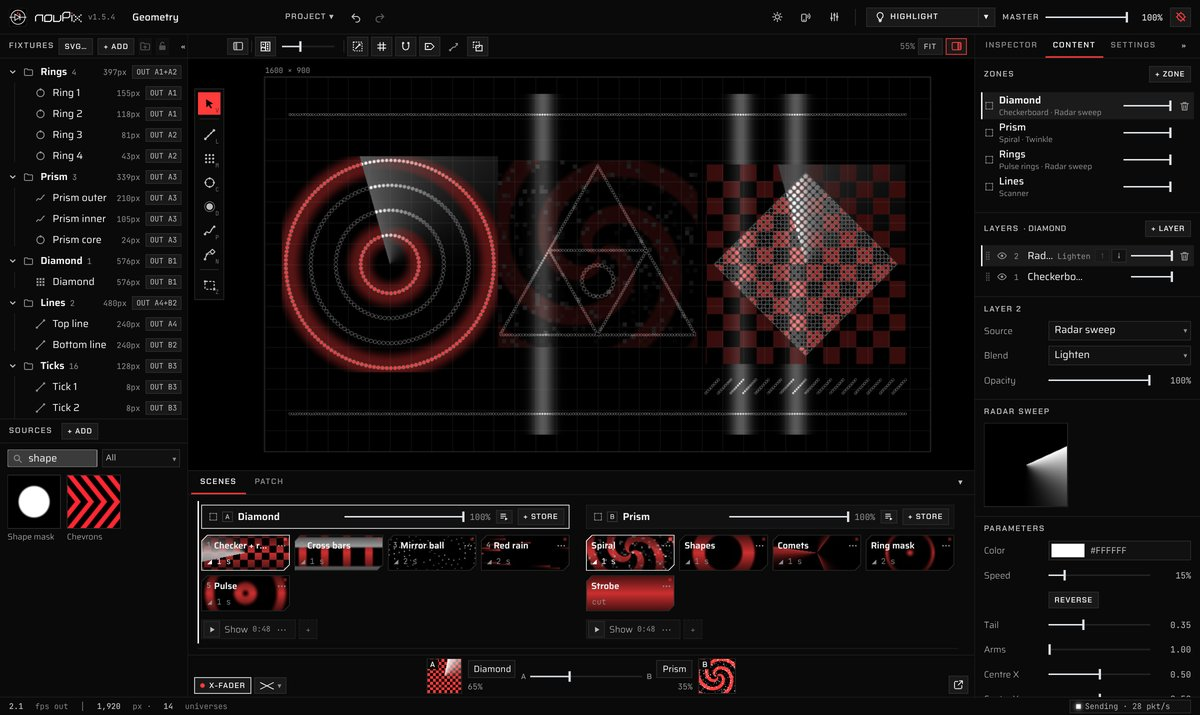
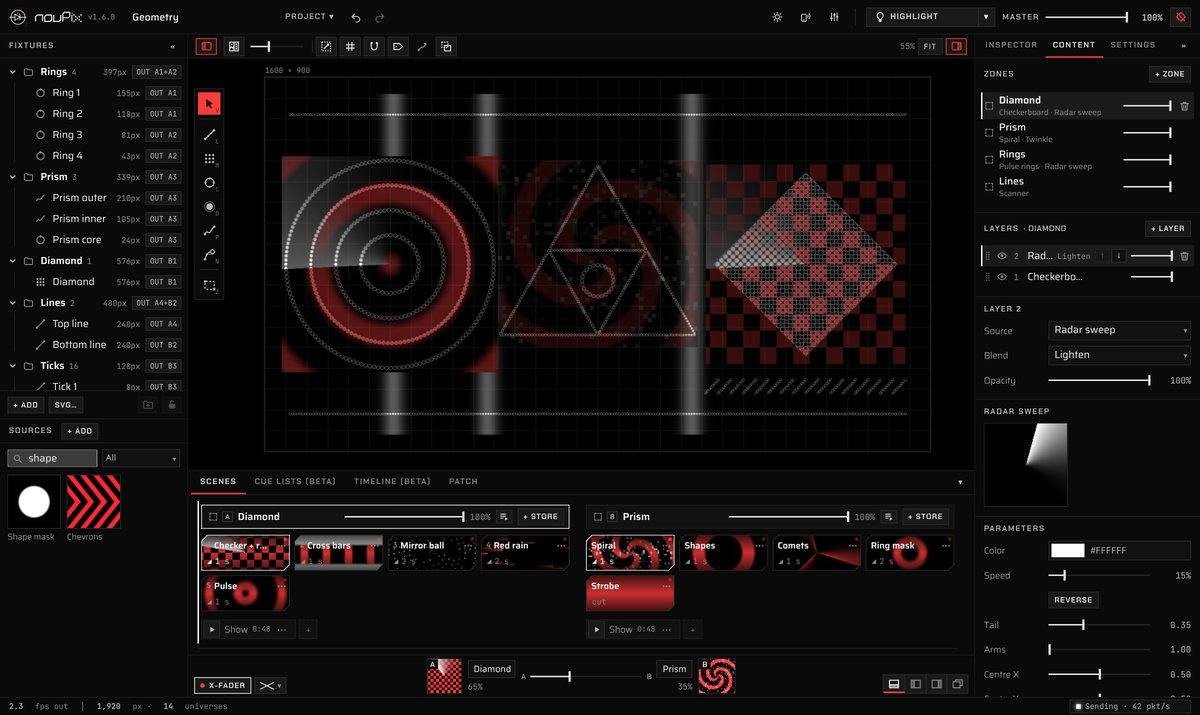
Site: 1.6.0, cue lists and the timeline (beta), pictures from 1.6.0, shorter texts
Claude-Session: https://claude.ai/code/session_01TnTf954bCnfcgD4L8cjhPo

diff --git a/docs/index.html b/docs/index.html
@@ -11,44 +11,8 @@
 <meta name="theme-color" content="#000000">
 <link rel="icon" href="img/favicon.svg" type="image/svg+xml">
 <style>html,body{margin:0;background:#000}</style>
-<!-- Password gate: a light lock, not security. If you where able to find it, you deserve to enter. -->
-<script>var NP_PASS='open-led';try{if(localStorage.getItem('np-pass')!==NP_PASS)document.documentElement.className+=' np-locked'}catch(e){document.documentElement.className+=' np-locked'}</script>
-<style>
-.np-locked #noupix{display:none}
-#np-gate{display:none}
-.np-locked #np-gate{display:flex;min-height:100vh;align-items:center;justify-content:center;padding:24px 16px;box-sizing:border-box;background:#000;color:#f0f0f0;font-family:"Saira",system-ui,-apple-system,"Segoe UI",sans-serif}
-#np-gate form{width:100%;max-width:340px;display:flex;flex-direction:column;gap:14px}
-#np-gate h1{margin:0;font:700 28px/1 "Chakra Petch","Saira",system-ui,sans-serif;letter-spacing:.02em}
-#np-gate p{margin:0;color:#8e8e8e;font:300 13px/1.5 "JetBrains Mono",ui-monospace,Menlo,Consolas,monospace}
-#np-gate input{background:#080808;border:1px solid #3a3a3a;color:#f0f0f0;font:400 16px/1 "JetBrains Mono",ui-monospace,Menlo,Consolas,monospace;padding:12px 14px;outline:none;border-radius:0}
-#np-gate input:focus{border-color:#bdbdbd}
-#np-gate button{background:#ff3b3b;border:0;color:#000;font:700 14px/1 "Chakra Petch","Saira",system-ui,sans-serif;letter-spacing:.08em;text-transform:uppercase;padding:14px;cursor:pointer}
-#np-gate .np-err{color:#ff3b3b;min-height:1.5em}
-</style>
 </head>
 <body>
-<div id="np-gate">
-  <form autocomplete="off">
-    <h1>nouPix</h1>
-    <p>This page isn't public yet. Enter the password to continue.</p>
-    <input type="password" aria-label="Password" placeholder="Password" autofocus>
-    <button type="submit">Enter</button>
-    <p class="np-err" aria-live="polite"></p>
-  </form>
-</div>
-<script>
-(function () {
-  var f = document.querySelector('#np-gate form'), i = f.querySelector('input'), err = f.querySelector('.np-err');
-  f.addEventListener('submit', function (e) {
-    e.preventDefault();
-    if (i.value.trim().toLowerCase() === NP_PASS) {
-      try { localStorage.setItem('np-pass', NP_PASS); } catch (x) {}
-      document.documentElement.className = document.documentElement.className.replace(/\s*np-locked/g, '');
-      window.dispatchEvent(new Event('resize'));   // the LED canvases measure themselves once visible
-    } else { err.textContent = 'Wrong password'; i.select(); }
-  });
-})();
-</script>
 <!-- nouPix product page · noupix.nouled.com
      The GitHub repo for releases, source, manuals and issues is set ONCE, in data-repo below.
      Every GitHub link on the page is built from it (and also written out in full, so the page works without JavaScript:
@@ -275,7 +239,7 @@
 @media (max-width:900px){#noupix .np-first,#noupix .np-source{grid-template-columns:minmax(0,1fr)}#noupix .np-source{padding:40px 20px 24px}}
 @media (max-width:560px){#noupix .np-dl{grid-template-columns:minmax(0,1fr)}}
 
-/* support */
+/* help */
 #noupix .np-help{display:grid;grid-template-columns:repeat(4,minmax(0,1fr));gap:16px}
 @media (max-width:1200px){#noupix .np-help{grid-template-columns:repeat(2,minmax(0,1fr))}}
 #noupix .np-help a{display:flex;flex-direction:column;gap:10px;padding:28px 26px;border:1px solid var(--line2);background:var(--bg1);transition:border-color .15s}
@@ -352,7 +316,7 @@
         <a class="np-btn primary" href="#np-download">Download free <span class="np-arrow">↓</span></a>
         <a class="np-btn" data-np-href="" href="https://github.com/nouled-studio/nouPix">Source on GitHub <span class="np-arrow">↗</span></a>
       </div>
-      <p class="np-meta"><span data-np="version">v1.5.4</span> · macOS 12+ · Windows 10+ · Linux and Raspberry Pi from source · <span class="np-oss">AGPL-3.0</span></p>
+      <p class="np-meta"><span data-np="version">v1.6.0</span> · macOS 12+ · Windows 10+ · Linux and Raspberry Pi from source · <span class="np-oss">AGPL-3.0</span></p>
     </div>
     <div class="np-wrap">
       <div class="np-zone np-shotwrap">
@@ -383,7 +347,7 @@
       <div>
         <span class="np-badge"><i></i>GNU AGPL-3.0</span>
         <h2 style="margin-top:24px"><span>Free.</span><span class="np-dim">Open source.</span><span>For everyone.</span></h2>
-        <p>nouPix costs nothing, and its <b>full source code is on GitHub</b>. Use it for any job, paid shows included. Read it, learn from it, change it, share it. Whoever shares it must keep it open: <b>the same freedom passes on to everyone who gets a copy</b>.</p>
+        <p>nouPix costs nothing, and its <b>full source code is on GitHub</b>. Read it, learn from it, change it, share it. Whoever shares it must keep it open: <b>the same freedom passes on to everyone who gets a copy</b>.</p>
         <div class="np-cta">
           <a class="np-btn" data-np-href="" href="https://github.com/nouled-studio/nouPix">Read the source <span class="np-arrow">↗</span></a>
           <a class="np-btn" href="#np-licence">The licence <span class="np-arrow">↓</span></a>
@@ -553,10 +517,34 @@
       </article>
 
       <article class="np-feat np-wide np-zone">
-        <span class="np-ztag"><b>Zone 07</b> 100% <i>●</i></span>
+        <span class="np-ztag"><b>Zone 07</b> beta <i>●</i></span>
         <div class="np-ftext">
           <div>
-          <p class="np-fnum">07 <i>/ Patch</i></p>
+          <p class="np-fnum">07 <i>/ Cues &amp; timeline</i></p>
+          <h3>Run the show cue by cue, or on a timeline</h3>
+          <p>Two new ways to play scenes, both in beta: try them, and say on GitHub what you miss.</p>
+          </div>
+          <ul class="np-list">
+            <li><b>Cue lists</b>: GO (or Space) plays the cue on standby. A cue plays scenes in the zones you choose, takes their levels somewhere and sets effects' controls, all over its fade</li>
+            <li>A cue can go on to the next, or to another, by itself after a wait; Back and Stop; as many cue lists as you like</li>
+            <li><b>Timeline</b>: scenes as clips on a track per zone, in time with an audio file and its waveform</li>
+            <li>Clips fade in and out, crossfade into each other and stack on lanes; loop it all or a region; the ruler in seconds or bars</li>
+            <li>The Scenes, Cue lists and Timeline panels can each move to the left or right side, as one more tab</li>
+          </ul>
+        </div>
+        <figure>
+          <div class="np-media np-cut"><img src="img/feature-timeline.webp" width="1572" height="760" loading="lazy" alt="The Timeline: an audio file's waveform on top, and a track per zone (Diamond, Prism on two lanes, Rings, Lines) with scene clips showing their snapshots, fading and crossfading, the ruler in bars and the playhead in red"></div>
+        </figure>
+        <figure>
+          <div class="np-media np-cut"><img src="img/feature-cues.webp" width="1572" height="570" loading="lazy" alt="A cue list, Opening night: GO, cue 3 on standby outlined in red, cue 2 playing in white with its progress line and going on by itself, and each cue's actions, fade and what comes after"></div>
+        </figure>
+      </article>
+
+      <article class="np-feat np-wide np-zone">
+        <span class="np-ztag"><b>Zone 08</b> 100% <i>●</i></span>
+        <div class="np-ftext">
+          <div>
+          <p class="np-fnum">08 <i>/ Patch</i></p>
           <h3>Patch once. Send Art&#8209;Net, <span style="text-transform:none">sACN</span> and DDP</h3>
           <p>Drag fixtures onto controller outputs and the addresses follow.</p>
           </div>
@@ -568,7 +556,7 @@
             <li><b>DDP</b> for WLED, Advatek, Falcon and other pixel controllers: one run of channels, none skipped</li>
             <li>16-bit fixtures, dimming curves, RGBW, gamma and colour trims</li>
             <li>Highlight lights fixtures on site: Trace, Flood, Color check, Spotlight, Pixel finder</li>
-            <li>A CSV patch list for the install crew</li>
+            <li>A CSV patch list to print or share</li>
           </ul>
         </div>
         <figure>
@@ -577,9 +565,9 @@
       </article>
 
       <article class="np-feat np-zone np-midi">
-        <span class="np-ztag"><b>Zone 08</b> learn <i>●</i></span>
+        <span class="np-ztag"><b>Zone 09</b> learn <i>●</i></span>
         <div class="np-ftext">
-          <p class="np-fnum">08 <i>/ MIDI</i></p>
+          <p class="np-fnum">09 <i>/ MIDI</i></p>
           <h3>Learn your controller in a second</h3>
           <p>Press Learn, move a fader, click what it should move.</p>
           <ul class="np-list">
@@ -596,11 +584,11 @@
       </article>
 
       <article class="np-feat np-flip np-zone">
-        <span class="np-ztag"><b>Zone 09</b> 100% <i>●</i></span>
+        <span class="np-ztag"><b>Zone 10</b> 100% <i>●</i></span>
         <div class="np-ftext">
-          <p class="np-fnum">09 <i>/ Remote</i></p>
-          <h3>Hand a phone to the end user</h3>
-          <p>The people who run the place get the buttons they need, not the mapping. Phones, tablets and other computers on the network log in with a role.</p>
+          <p class="np-fnum">10 <i>/ Remote</i></p>
+          <h3>Play it from a phone</h3>
+          <p>Phones, tablets and other computers on the network log in with a role, and each role gets the buttons it needs.</p>
           <ul class="np-list">
             <li><em>Remote</em>: a simple page to play scenes and playlists and dim each zone, and the X-Fader when you choose; a full-screen pad for interactive content</li>
             <li><em>Operator</em>: content, scenes and playlists; the mapping stays locked</li>
@@ -615,9 +603,9 @@
       </article>
 
       <article class="np-feat np-zone">
-        <span class="np-ztag"><b>Zone 10</b> 100% <i>●</i></span>
+        <span class="np-ztag"><b>Zone 11</b> 100% <i>●</i></span>
         <div class="np-ftext">
-          <p class="np-fnum">10 <i>/ Look</i></p>
+          <p class="np-fnum">11 <i>/ Look</i></p>
           <h3>Black for the show. White for daylight</h3>
           <p>The interface is black, so the light on the stage is the brightest thing on screen. One click turns it white for working outside.</p>
           <ul class="np-list">
@@ -653,7 +641,7 @@
           <b>DMX In</b><span>Take channels from a lighting desk to play scenes and move levels and macros, next to MIDI.</span></li>
         <li class="np-more">
           <svg viewBox="0 0 56 56" aria-hidden="true"><g fill="#3a3a3a"><circle cx="14" cy="28" r="3"/><circle cx="28" cy="28" r="3"/></g><circle cx="42" cy="28" r="3" fill="#ff3b3b"/></svg>
-          <b>And many more</b><span>Missing something for your installation? Say what you need: requests decide what comes next.</span>
+          <b>And many more</b><span>Missing something? Ideas and requests help decide what comes next.</span>
           <a data-np-href="/issues/new?labels=enhancement&amp;title=Idea%3A%20" href="https://github.com/nouled-studio/nouPix/issues/new?labels=enhancement&amp;title=Idea%3A%20">Request a feature →</a></li>
       </ul>
       <p class="np-nextnote">Plans, not promises: what comes first, and when, can change.</p>
@@ -691,7 +679,7 @@
         </a>
       </div>
       <div class="np-dlmeta">
-        <span>Latest: <span data-np="version">v1.5.4</span><span data-np="date"></span></span>
+        <span>Latest: <span data-np="version">v1.6.0</span><span data-np="date"></span></span>
         <a data-np-href="/releases/latest" href="https://github.com/nouled-studio/nouPix/releases/latest">Release notes</a>
         <a data-np-href="/releases" href="https://github.com/nouled-studio/nouPix/releases">All versions</a>
         <a data-np-href="" href="https://github.com/nouled-studio/nouPix">Source code</a>
@@ -713,7 +701,7 @@
           <pre><code><span class="p">$ </span>git clone <span data-np-clone>https://github.com/nouled-studio/nouPix.git</span>
 <span class="p">$ </span>cd nouPix
 <span class="p">$ </span>python3 noupix.py
-<span class="c">  nouPix 1.5.4
+<span class="c">  nouPix 1.6.0
   Interface   http://127.0.0.1:8080/</span></code></pre>
         </div>
       </div>
@@ -728,7 +716,7 @@
 
   <section class="np-sec" id="np-help">
     <div class="np-wrap">
-      <div class="np-sechead"><span class="np-mono">//</span><h2>Manual &amp; support</h2></div>
+      <div class="np-sechead"><span class="np-mono">//</span><h2>Manual &amp; help</h2></div>
       <div class="np-help">
         <a class="np-cut" data-np-href="/blob/main/docs/nouPix-getting-started.pdf" href="https://github.com/nouled-studio/nouPix/blob/main/docs/nouPix-getting-started.pdf">
           <b>Manual</b><span>Getting started, step by step with pictures: from an empty project to a running show. PDF.</span><span class="np-go">Open the manual (PDF) →</span>
@@ -737,13 +725,13 @@
           <b>Report a bug</b><span>Say what you did, what happened and what you expected. Your nouPix version and computer help a lot.</span><span class="np-go">Open a bug report →</span>
         </a>
         <a class="np-cut" data-np-href="/issues/new?labels=enhancement&amp;title=Idea%3A%20" href="https://github.com/nouled-studio/nouPix/issues/new?labels=enhancement&amp;title=Idea%3A%20">
-          <b>Request a feature</b><span>Missing something for your installation? Describe the job you need to get done.</span><span class="np-go">Suggest a feature →</span>
+          <b>Request a feature</b><span>Missing something? Describe what you'd like nouPix to do.</span><span class="np-go">Suggest a feature →</span>
         </a>
         <a class="np-cut" href="https://discord.gg/fF9dY269U" rel="noopener">
           <b>Community</b><span>Talk about nouPix on Discord: ask questions, share your installations and ideas with other users.</span><span class="np-go">Join the Discord →</span>
         </a>
       </div>
-      <p class="np-helpnote">The essentials are also in the <a data-np-href="#readme" href="https://github.com/nouled-studio/nouPix#readme">README</a>, every feature in detail in the <a data-np-href="/blob/main/docs/user-guide.md" href="https://github.com/nouled-studio/nouPix/blob/main/docs/user-guide.md">full reference</a>. Reports and requests live on GitHub; you need a free GitHub account. Check the <a data-np-href="/issues" href="https://github.com/nouled-studio/nouPix/issues">open issues</a> first: yours may be there already.</p>
+      <p class="np-helpnote">The essentials are also in the <a data-np-href="#readme" href="https://github.com/nouled-studio/nouPix#readme">README</a>, every feature in detail in the <a data-np-href="/blob/main/docs/user-guide.md" href="https://github.com/nouled-studio/nouPix/blob/main/docs/user-guide.md">full reference</a>. nouPix is a free project with no support service: report bugs and requests on GitHub (you need a free GitHub account). Check the <a data-np-href="/issues" href="https://github.com/nouled-studio/nouPix/issues">open issues</a> first: yours may be there already.</p>
     </div>
   </section>
 
@@ -756,7 +744,7 @@
           <span class="np-ztag"><b>Free</b> what you may do</span>
           <h3>Free and open source</h3>
           <ul>
-            <li><b>Use it for free, for anything</b>: personal work, commercial installations and paid shows, on as many computers as you like.</li>
+            <li><b>Use it for free, for anything</b>, on as many computers as you like.</li>
             <li><b>Read the source</b>, learn from it and change it for your own needs.</li>
             <li><b>Share it</b>, changed or not, under the terms next to this.</li>
             <li>What you make with it, your projects, layouts and shows, is yours.</li>
@@ -810,7 +798,7 @@
         <a href="#np-licence">Licence</a>
         <a href="https://www.nouled.com">nouled.com</a>
       </nav>
-      <p class="np-copy">© 2026 NOULED.STUDIO · nouPix <span data-np="version">v1.5.4</span> · free software under the GNU AGPL-3.0</p>
+      <p class="np-copy">© 2026 NOULED.STUDIO · nouPix <span data-np="version">v1.6.0</span> · free software under the GNU AGPL-3.0</p>
     </div>
   </footer>
 </div>
